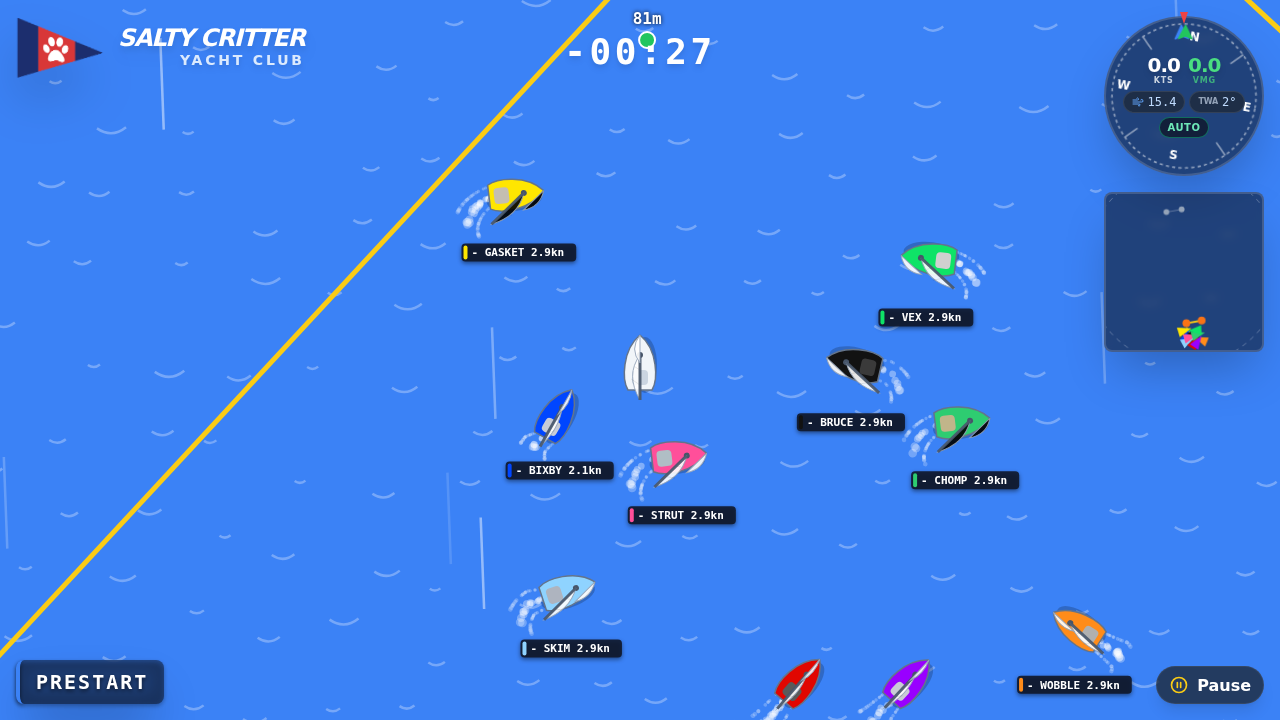
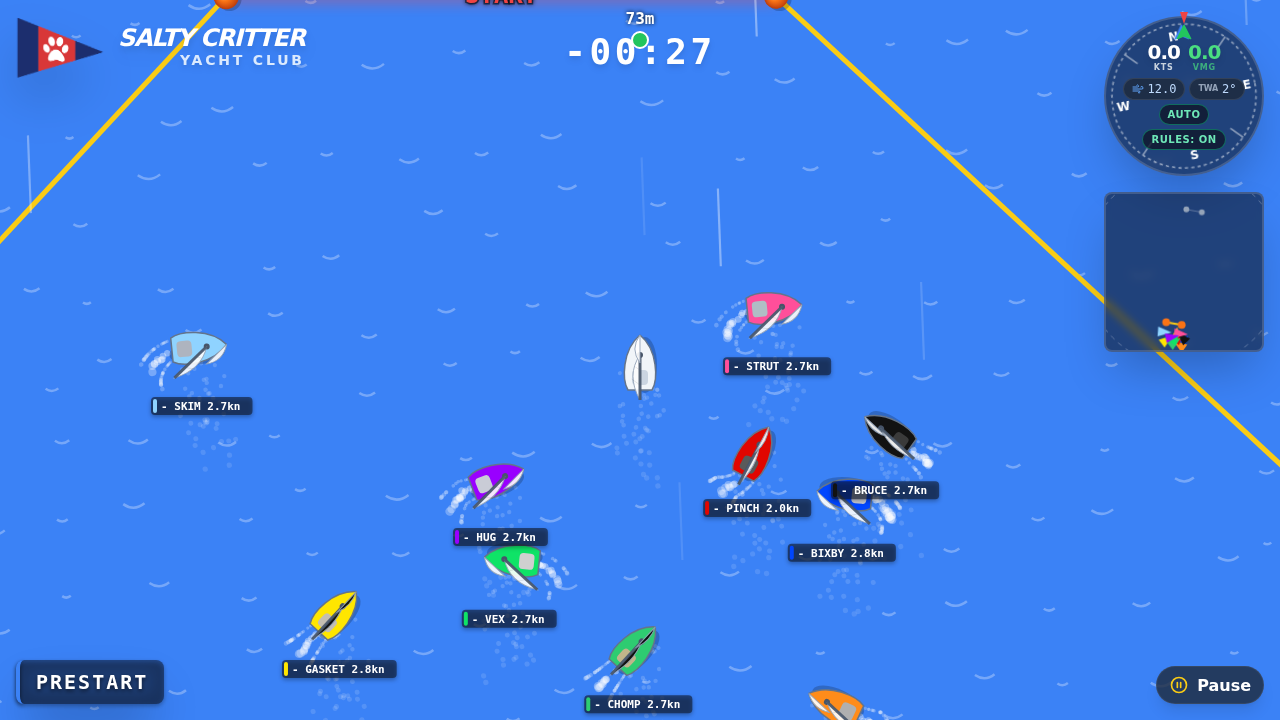
feat: make boat name indicators semi-transparent in Regatta
Modified the `drawBoatIndicator` function in `regatta/script.js` to use a semi-transparent background color (`rgba(15, 23, 42, 0.6)`) instead of the previous nearly opaque value (`0.9`). This improves the visual integration of the indicators with the water background.

diff --git a/regatta/script.js b/regatta/script.js
@@ -2251,7 +2251,7 @@ function drawBoatIndicator(ctx, boat) {
     ctx.shadowOffsetY = 2;
 
     // Main Box
-    ctx.fillStyle = 'rgba(15, 23, 42, 0.9)';
+    ctx.fillStyle = 'rgba(15, 23, 42, 0.6)';
     ctx.beginPath();
     ctx.roundRect(x, y, boxWidth, boxHeight, 4);
     ctx.fill();

diff --git a/verification/verify_regatta.py b/verification/verify_regatta.py
@@ -1,35 +1,26 @@
 
-from playwright.sync_api import sync_playwright
 import os
+from playwright.sync_api import sync_playwright
 
 def run():
     with sync_playwright() as p:
         browser = p.chromium.launch(headless=True)
-        context = browser.new_context()
-        page = context.new_page()
+        page = browser.new_page()
 
-        # Determine the absolute path to regatta/index.html
-        cwd = os.getcwd()
-        url = f'file://{cwd}/regatta/index.html'
+        # Get the absolute path to the file
+        filepath = os.path.abspath("regatta/index.html")
+        page.goto(f"file://{filepath}")
 
-        print(f'Navigating to {url}')
-        page.goto(url)
+        # Wait for canvas
+        page.wait_for_selector("#gameCanvas")
 
-        # Wait for canvas to be present
-        page.wait_for_selector('#gameCanvas')
+        # Wait a bit for the game to initialize and draw
+        page.wait_for_timeout(2000)
 
-        # Wait a bit for the game to initialize and render
-        # We want to see boats, so we need the game to start.
-        # regatta/script.js auto-starts (calls resetGame and loop).
-        # We need to wait for frames to render.
-
-        page.wait_for_timeout(2000) # Wait 2 seconds
-
-        # Take screenshot
-        page.screenshot(path='verification/regatta_screenshot.png')
-        print('Screenshot saved to verification/regatta_screenshot.png')
+        # Take a screenshot
+        page.screenshot(path="verification/regatta_screenshot.png")
 
         browser.close()
 
-if __name__ == '__main__':
+if __name__ == "__main__":
     run()
